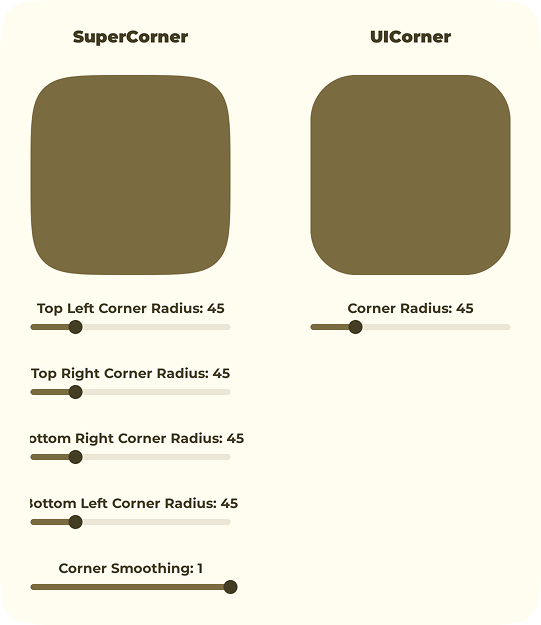
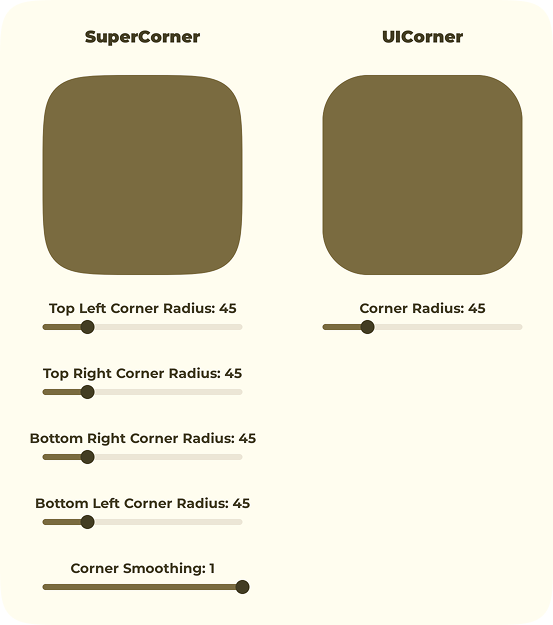
updated readme

diff --git a/README.md b/README.md
@@ -2,6 +2,10 @@
 
 A Figma-inspired UICorner alternative for Roblox.
 
+Benefits to SuperCorner:
+- Supports individual corner radii.
+- Supports corner smoothing (squircle).
+
 ## Disclaimer
 
 > This library is not an official product from the Figma team and does not guarantee to produce the same results as you would get in Figma.
